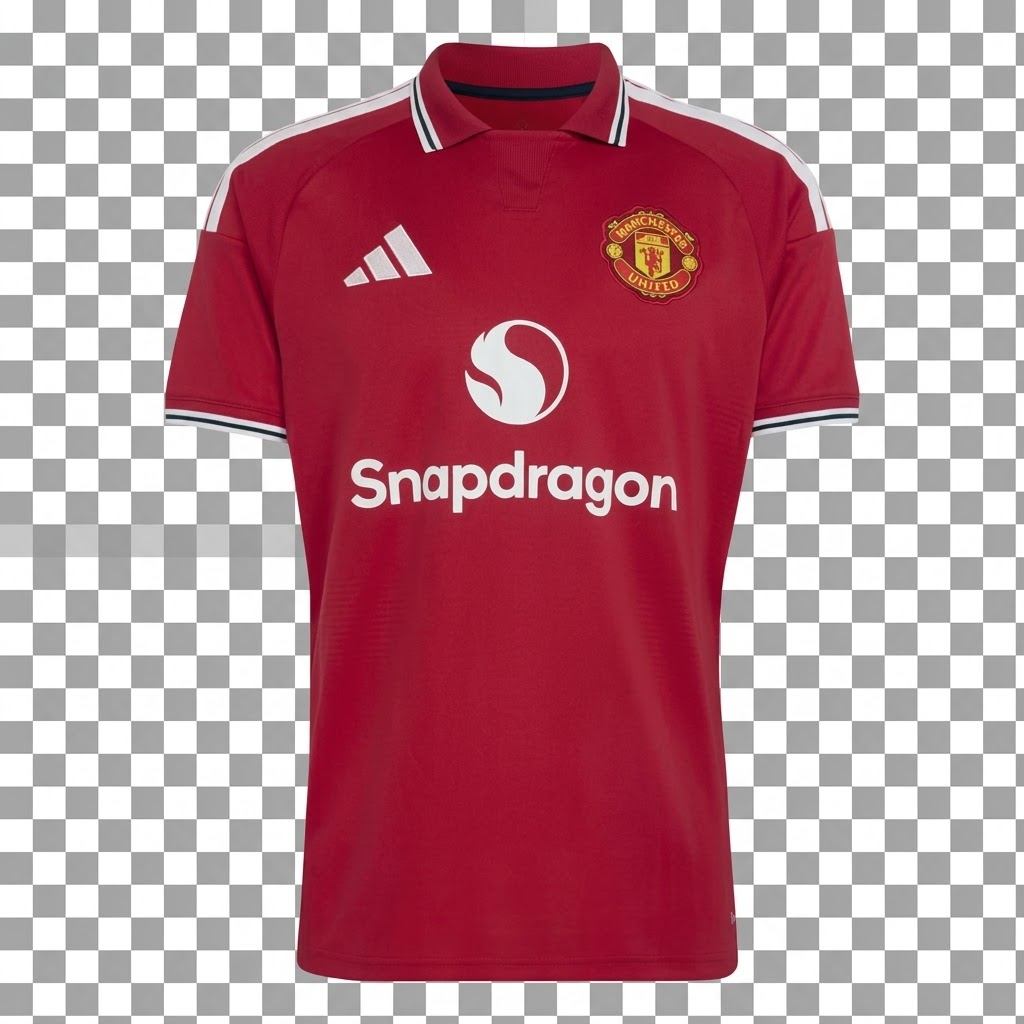
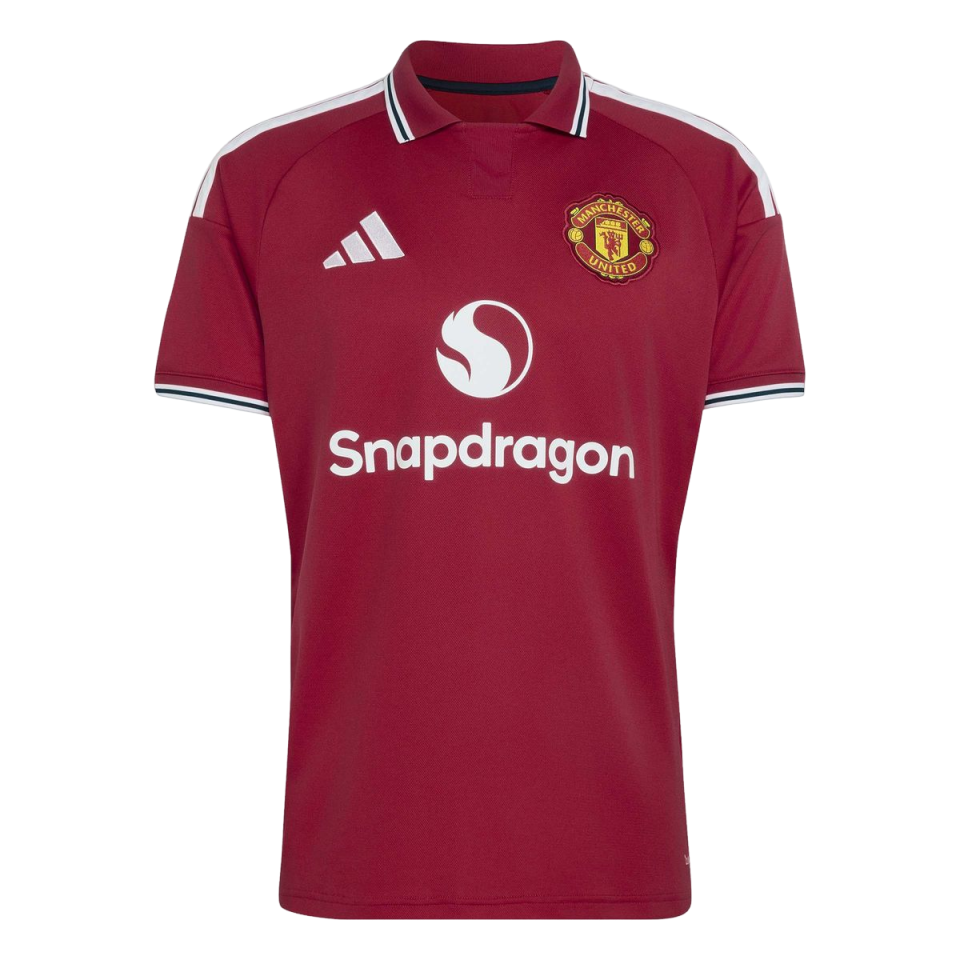
Subiendo actualización de imagenes que no se renderizaban bien.

diff --git a/README.md b/README.md
@@ -1,5 +1,10 @@
 # OFFSIDE — Tienda de camisetas de fútbol
 
+## Integrantes
+* **uan Pablo Blanco Ramírez**
+* **Diego Alejandro Garzón Villegas**
+* **Samuel Sáncehz Sánchez**
+
 Aplicación de escritorio en **JavaFX** para vender camisetas de los equipos de las cinco grandes ligas de Europa (Premier League, La Liga, Serie A, Bundesliga y Ligue 1).
 
 Tiene dos tipos de usuario:
@@ -22,7 +27,6 @@ Tiene dos tipos de usuario:
   - [5. Vistas, controladores y componentes](#5-vistas-controladores-y-componentes)
   - [6. Cómo extender la aplicación](#6-cómo-extender-la-aplicación)
   - [7. Convenciones](#7-convenciones)
-  - [8. Limitaciones conocidas](#8-limitaciones-conocidas)
 
 ---
 
